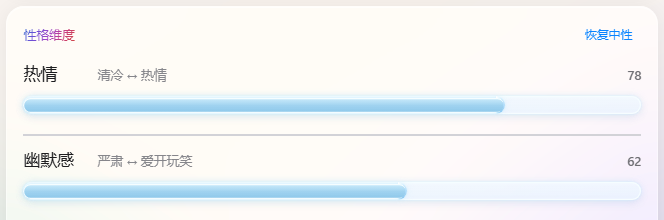
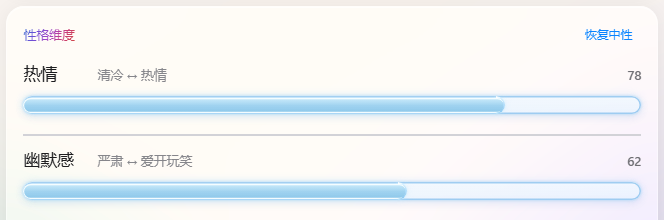
style(proto): 整根进度条被淡蓝玻璃边四面围住
为什么之前"看不见包围"：
轨道外圈是 inset 0 0 0 1.2px rgba(246,253,255,.98)，
而管体本身是 rgba(240,248,255,.82) —— 近白压近白，等于没有。
只有压在蓝底上的那段圆弧才显形。

现在轨道外圈换成能读出来的淡蓝：
  inset 0 0 0 1.5px rgba(150,200,240,.9)
  inset 0 1px 0 rgba(255,255,255,.85)    顶边留一道白高光
  0 0 3px  rgba(160,210,248,.8)          四周发光
  0 0 10px rgba(160,210,248,.32)
于是上下左右四条边都有玻璃圈，蓝填充在里面，圆弧在右端收尾。

过程如实记录：
第一次替换时我写的"行尾检测"把 .ice-track 的 } 和 .ice-fill 的开头
一起删掉了，两条规则被拼成一条，.ice-fill 选择器丢失（填充样式全没了）。
探针立刻报 insideTop=-1.5 暴露异常。
已按行号重建两条规则，并校验花括号平衡（80/80）。

实测：rightGap=0 @25/50/78/100，insideTop=0，[TANGENT_TO_FILL_END] true
控制台零错误。

diff --git a/prototypes/Costudy-UI-原型.html b/prototypes/Costudy-UI-原型.html
@@ -1982,18 +1982,18 @@ input[type="range"]:active::-webkit-slider-thumb {
     rgba(240, 248, 255, 0.82) 0%,
     rgba(228, 241, 254, 0.68) 100%
   );
+  /* 整根进度条被一圈淡蓝玻璃边包住（上下左右都有），
+     与右端圆弧同族，只是更淡，避免像白圈那样跳出来 */
   box-shadow:
-    /* 整根管子的外轮廓：与右端圆弧同一道 1.2px 亮线、同一支光，
-       整个进度条的玻璃边因此是连续的一笔 */
-    inset 0 0 0 1.2px rgba(246, 253, 255, 0.98),
-    0 0 2px rgba(200, 236, 255, 0.75),
-    0 0 7px rgba(180, 225, 250, 0.35),
-    0 3px 9px rgba(96, 135, 180, 0.14);
+    inset 0 0 0 1.5px rgba(150, 200, 240, 0.9),
+    inset 0 1px 0 rgba(255, 255, 255, 0.85),
+    0 0 3px rgba(160, 210, 248, 0.8),
+    0 0 10px rgba(160, 210, 248, 0.32),
+    0 3px 9px rgba(96, 135, 180, 0.12);
 }
 
-/* 填充：高度收进玻璃内径（18 - 壁 1.5x2 = 15px），
-   外轮廓用与右端圆弧【同一条】1.2px 亮线包住整条，
-   于是圆弧就是这条轮廓在右端的收尾，两者连成一笔。 */
+/* 填充：高度收进玻璃内径（18 - 1.5x2 = 15px），
+   外轮廓与右端圆弧同一道亮线，于是圆弧就是它的右端收尾 */
 .ice-fill {
   position: absolute;
   top: 1.5px;
@@ -2007,15 +2007,11 @@ input[type="range"]:active::-webkit-slider-thumb {
     rgba(132, 196, 232, 0.92) 100%
   );
   box-shadow:
-    /* 整条轮廓：与圆弧同色、同宽 */
     inset 0 0 0 1.2px rgba(246, 253, 255, 0.98),
-    /* 外发光：与圆弧的 drop-shadow 同一支光 */
     0 0 2px rgba(200, 236, 255, 0.75),
     0 0 7px rgba(180, 225, 250, 0.35);
 }
 
-/* 拇指：管内透明的玻璃圆 —— 与玻璃边框内沿相切
-   管子 18px，玻璃壁 1.5px -> 内径 15px，正好相切 */
 /* 拇指：一道右半圆弧（不是实心半圆，不显示直径）
    15x15 的圆环只画右半圈（conic 从 12 点顺时针到 6 点），
    中心用 mask 挖空，所以看不到任何平直的边。

diff --git a/prototypes/costudy-ui/liquid-glass.css b/prototypes/costudy-ui/liquid-glass.css
@@ -1182,18 +1182,18 @@ input[type="range"]:active::-webkit-slider-thumb {
     rgba(240, 248, 255, 0.82) 0%,
     rgba(228, 241, 254, 0.68) 100%
   );
+  /* 整根进度条被一圈淡蓝玻璃边包住（上下左右都有），
+     与右端圆弧同族，只是更淡，避免像白圈那样跳出来 */
   box-shadow:
-    /* 整根管子的外轮廓：与右端圆弧同一道 1.2px 亮线、同一支光，
-       整个进度条的玻璃边因此是连续的一笔 */
-    inset 0 0 0 1.2px rgba(246, 253, 255, 0.98),
-    0 0 2px rgba(200, 236, 255, 0.75),
-    0 0 7px rgba(180, 225, 250, 0.35),
-    0 3px 9px rgba(96, 135, 180, 0.14);
+    inset 0 0 0 1.5px rgba(150, 200, 240, 0.9),
+    inset 0 1px 0 rgba(255, 255, 255, 0.85),
+    0 0 3px rgba(160, 210, 248, 0.8),
+    0 0 10px rgba(160, 210, 248, 0.32),
+    0 3px 9px rgba(96, 135, 180, 0.12);
 }
 
-/* 填充：高度收进玻璃内径（18 - 壁 1.5x2 = 15px），
-   外轮廓用与右端圆弧【同一条】1.2px 亮线包住整条，
-   于是圆弧就是这条轮廓在右端的收尾，两者连成一笔。 */
+/* 填充：高度收进玻璃内径（18 - 1.5x2 = 15px），
+   外轮廓与右端圆弧同一道亮线，于是圆弧就是它的右端收尾 */
 .ice-fill {
   position: absolute;
   top: 1.5px;
@@ -1207,15 +1207,11 @@ input[type="range"]:active::-webkit-slider-thumb {
     rgba(132, 196, 232, 0.92) 100%
   );
   box-shadow:
-    /* 整条轮廓：与圆弧同色、同宽 */
     inset 0 0 0 1.2px rgba(246, 253, 255, 0.98),
-    /* 外发光：与圆弧的 drop-shadow 同一支光 */
     0 0 2px rgba(200, 236, 255, 0.75),
     0 0 7px rgba(180, 225, 250, 0.35);
 }
 
-/* 拇指：管内透明的玻璃圆 —— 与玻璃边框内沿相切
-   管子 18px，玻璃壁 1.5px -> 内径 15px，正好相切 */
 /* 拇指：一道右半圆弧（不是实心半圆，不显示直径）
    15x15 的圆环只画右半圈（conic 从 12 点顺时针到 6 点），
    中心用 mask 挖空，所以看不到任何平直的边。
